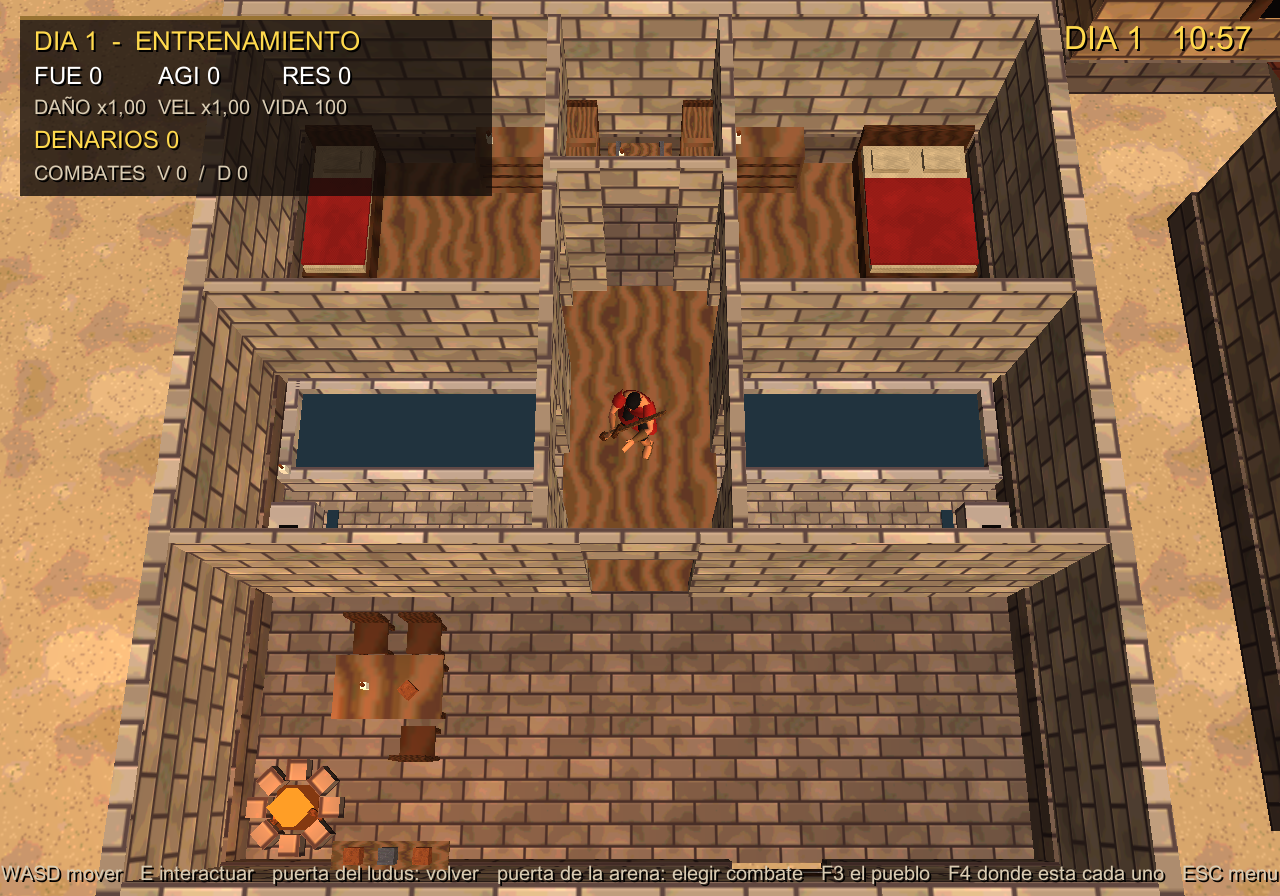
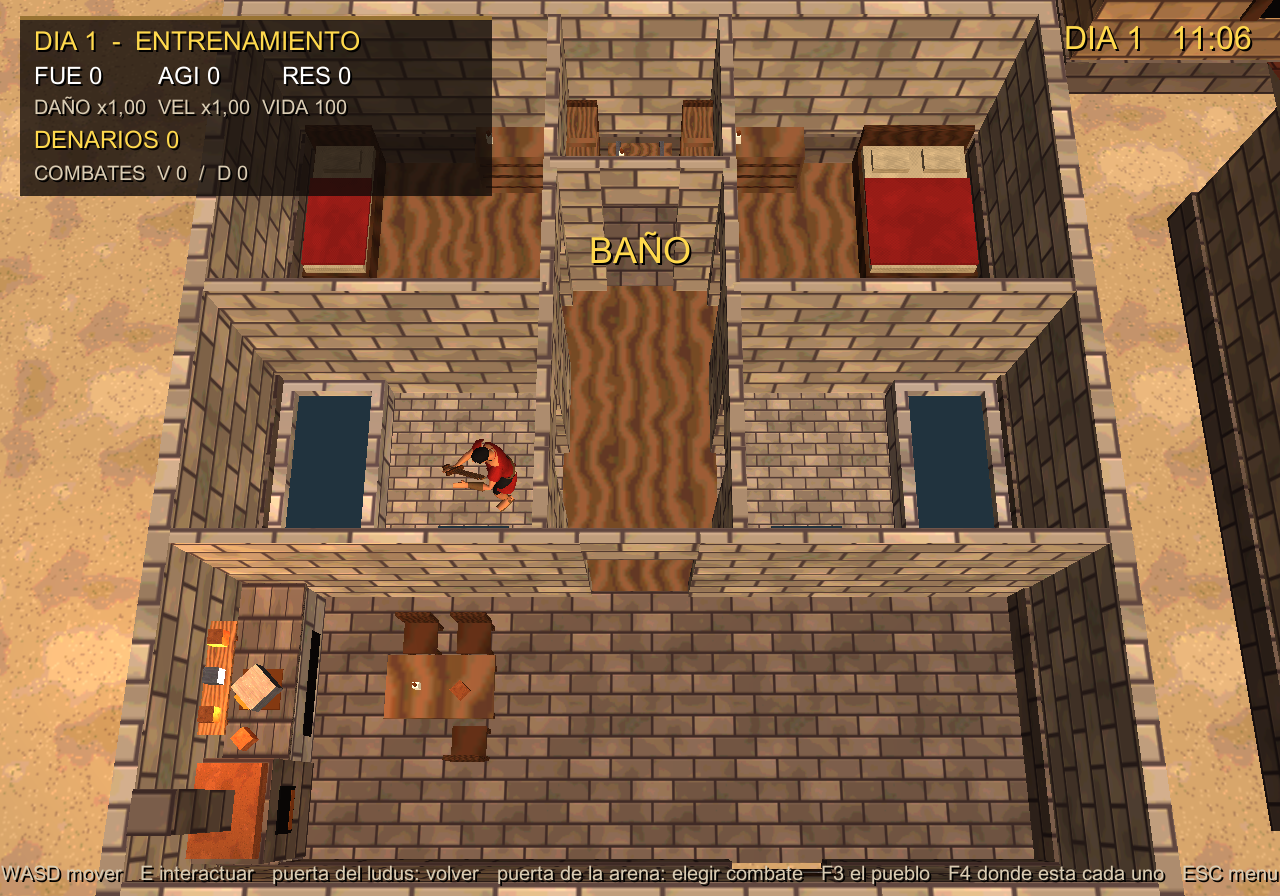
Casas: cocina de obra con horno en todo un costado (sin hoguera), estante colgado sobre la encimera; banera al fondo sin tapar la entrada

diff --git a/Assets/_Project/Scripts/Town/TownBuilder.cs b/Assets/_Project/Scripts/Town/TownBuilder.cs
@@ -547,9 +547,36 @@ namespace Gladiator.Town
                     }
                     else if (chest && z0 + 2.7f < z1 - 0.1f) Candle(cx + 0.25f, 0.56f, z0 + 2.4f);
                 }
-                // a bathroom: a big tub along wall z0 (the far one), a latrine against the far side near z1, a candle
-                void Bathroom(float x0, float x1, float z0, float z1, int farSide)
+                // a bathroom. Doorway in the z1 wall (normal homes): the tub along the back wall z0, the latrine by the far
+                // side near z1. Doorway in a side wall (large homes, doorSide = -1 at x0 / +1 at x1): the tub along the
+                // opposite side wall, the latrine against the z1 wall between the tub and the doorway. Candle on the tub.
+                void Bathroom(float x0, float x1, float z0, float z1, int farSide, int doorSide = 0)
                 {
+                    if (doorSide != 0)
+                    {
+                        float dpt = z1 - z0, wdt = x1 - x0;
+                        float tL = Mathf.Max(1.4f, dpt - 0.25f), tW = Mathf.Min(1.3f, wdt - 1.7f);
+                        if (tW < 0.9f) tW = 0.9f;
+                        float tx = doorSide > 0 ? x0 + 0.1f + tW * 0.5f : x1 - 0.1f - tW * 0.5f, tzc = (z0 + z1) * 0.5f;
+                        Box(stone, P(tx - tW * 0.5f + 0.08f, 0.3f, tzc), new Vector3(0.16f, 0.6f, tL), q);
+                        Box(stone, P(tx + tW * 0.5f - 0.08f, 0.3f, tzc), new Vector3(0.16f, 0.6f, tL), q);
+                        Box(stone, P(tx, 0.3f, tzc - tL * 0.5f + 0.08f), new Vector3(tW, 0.6f, 0.16f), q);
+                        Box(stone, P(tx, 0.3f, tzc + tL * 0.5f - 0.08f), new Vector3(tW, 0.6f, 0.16f), q);
+                        Box(stone, P(tx, 0.05f, tzc), new Vector3(tW, 0.1f, tL), q);
+                        Box(water, P(tx, 0.42f, tzc), new Vector3(tW - 0.3f, 0.03f, tL - 0.3f), q, 0f);
+                        Collider(P(tx, 0.3f, tzc), new Vector3(tW, 0.6f, tL), q);
+                        Candle(tx, 0.6f, tzc + tL * 0.5f - 0.1f);
+                        // latrine along the z1 wall, between the tub and the doorway
+                        float free0 = doorSide > 0 ? x0 + 0.2f + tW : x0 + 0.1f, free1 = doorSide > 0 ? x1 - 0.1f : x1 - 0.2f - tW;
+                        if (free1 - free0 >= 0.95f)
+                        {
+                            float lxc = (free0 + free1) * 0.5f, lzc = z1 - 0.35f;
+                            Solid(stone, lxc, 0.22f, lzc, new Vector3(0.9f, 0.44f, 0.6f));
+                            Box(dark, P(lxc, 0.445f, lzc), new Vector3(0.3f, 0.01f, 0.24f), q, 0f);
+                            Box(water, P(lxc, 0.03f, lzc - 0.42f), new Vector3(0.9f, 0.03f, 0.14f), q, 0f);
+                        }
+                        return;
+                    }
                     float bw = x1 - x0, depth = z1 - z0;
                     float tubW = Mathf.Max(1.4f, bw - 0.3f), tubD = Mathf.Min(1.35f, depth - 1.2f);
                     if (tubD < 0.9f) tubD = 0.9f;
@@ -571,39 +598,66 @@ namespace Gladiator.Town
                     }
                 }
 
-                // KITCHEN: hearth in the far front corner, table with chairs, a shelf, a hanging shelf, a candle
+                // KITCHEN: a masonry cooking range along the whole far side wall (the door is never there): an oven at the
+                // front end, a fire on the worktop with a pot, jars, and a shelf hanging above it. Table with chairs, a
+                // standing shelf on the other wall (normal homes; large ones keep their shelves in the storeroom).
                 float f = sideDoor ? -ss : (dx >= 0f ? -1f : 1f);
                 float xFar = f > 0 ? ix1 : ix0, xNear = f > 0 ? ix0 : ix1;
                 float kMid = (zs + iz1) * 0.5f;
                 {
-                    float hx0 = xFar - f * 0.62f, hz0 = iz1 - 0.62f;
-                    for (int k = 0; k < 8; k++)
-                    {
-                        float a = k / 8f * Mathf.PI * 2f;
-                        Solid(stoneDark, hx0 + Mathf.Cos(a) * 0.42f, 0.12f, hz0 + Mathf.Sin(a) * 0.42f, new Vector3(0.24f, 0.24f, 0.24f), false, k * 45f);
-                    }
-                    Box(ember, P(hx0, 0.06f, hz0), new Vector3(0.5f, 0.06f, 0.5f), q, 0f);
-                    Box(darkWood, P(hx0 - 0.12f, 0.14f, hz0), new Vector3(0.5f, 0.07f, 0.07f), q * Quaternion.Euler(0, 30f, 0), 0f);
-                    Box(darkWood, P(hx0 + 0.1f, 0.14f, hz0 + 0.05f), new Vector3(0.5f, 0.07f, 0.07f), q * Quaternion.Euler(0, -40f, 0), 0f);
-                    Collider(P(hx0, 0.3f, hz0), new Vector3(1.0f, 0.6f, 1.0f), q);
-                    var fire = new GameObject("Hearth").transform;
+                    const float cd = 0.72f;                                   // depth of the range
+                    float rx = xFar - f * cd * 0.5f, rz0 = zs + 0.1f, rz1 = iz1 - 0.05f, rLen = rz1 - rz0;
+                    // worktop body + top slab + a dark band (the fire boxes underneath)
+                    Solid(stone, rx, 0.45f, (rz0 + rz1) * 0.5f, new Vector3(cd, 0.9f, rLen));
+                    Box(stoneDark, P(rx, 0.93f, (rz0 + rz1) * 0.5f), new Vector3(cd + 0.04f, 0.06f, rLen + 0.04f), q, 0f);
+                    Box(dark, P(rx - f * (cd * 0.5f + 0.005f), 0.3f, rz0 + rLen * 0.35f), new Vector3(0.01f, 0.32f, rLen * 0.4f), q, 0f);
+                    // the oven at the front end: a block with a dark arched mouth, embers inside and a chimney
+                    float oz = rz1 - 0.55f;
+                    Solid(stoneDark, rx, 0.75f, oz, new Vector3(cd + 0.06f, 1.5f, 1.05f));
+                    Box(clay, P(rx, 1.6f, oz), new Vector3(cd - 0.04f, 0.22f, 0.95f), q, 0f);
+                    Box(dark, P(rx - f * (cd * 0.5f + 0.04f), 0.95f, oz), new Vector3(0.02f, 0.5f, 0.5f), q, 0f);
+                    Box(ember, P(rx - f * (cd * 0.5f + 0.045f), 0.78f, oz), new Vector3(0.02f, 0.12f, 0.42f), q, 0f);
+                    Box(stoneDark, P(xFar - f * 0.25f, 2.4f, oz), new Vector3(0.4f, 1.6f, 0.4f), q);                 // chimney up the wall
+                    // the fire on the worktop with a pot over it (its light: on only while you are in this storey)
+                    float fz = rz0 + Mathf.Min(1.2f, rLen * 0.4f);
+                    Box(ember, P(rx, 0.97f, fz), new Vector3(0.45f, 0.03f, 0.45f), q, 0f);
+                    Box(iron, P(rx, 1.12f, fz), new Vector3(0.36f, 0.26f, 0.36f), q * Quaternion.Euler(0, 45f, 0), 0f);
+                    var fire = new GameObject("CookingFire").transform;
                     fire.SetParent(house.transform, false);
-                    fire.position = P(hx0, 0.1f, hz0);
+                    fire.position = P(rx, 0.97f, fz);
                     var fl = new GameObject("Flame").transform;
                     fl.SetParent(fire, false);
-                    PS2Spawn.Mesh(fl, "F", LowPolyMesh.Box(new Vector3(0.3f, 0.45f, 0.3f), new Vector3(0, 0.22f, 0)), Vector3.zero, flameMat, Quaternion.Euler(0, 45f, 0));
-                    PS2Spawn.Mesh(fl, "F2", LowPolyMesh.Box(new Vector3(0.16f, 0.32f, 0.16f), new Vector3(0, 0.16f, 0)), new Vector3(0.08f, 0, 0.05f), ember);
-                    var li = new GameObject("HearthLight").AddComponent<Light>();
+                    PS2Spawn.Mesh(fl, "F", LowPolyMesh.Box(new Vector3(0.18f, 0.16f, 0.18f), new Vector3(0, 0.08f, 0)), new Vector3(0.12f, 0f, 0.1f), flameMat, Quaternion.Euler(0, 45f, 0));
+                    var li = new GameObject("KitchenLight").AddComponent<Light>();
                     li.transform.SetParent(fire, false);
-                    li.transform.localPosition = new Vector3(0, 1.1f, 0);
-                    li.type = LightType.Point; li.range = 5.5f; li.intensity = 1.5f; li.color = new Color(1f, 0.58f, 0.25f);
+                    li.transform.localPosition = new Vector3(0, 1.0f, 0);
+                    li.type = LightType.Point; li.range = 5.5f; li.intensity = 1.4f; li.color = new Color(1f, 0.6f, 0.28f);
                     li.shadows = LightShadows.None;
                     li.enabled = false;
                     var tf = fire.gameObject.AddComponent<Gladiator.Arena.TorchFlicker>();
                     tf.Light = li; tf.Flame = fl; tf.BaseIntensity = li.intensity;
                     house.Lights.Add(li);
+                    // jars on the worktop
+                    for (int k = 0; k < 3; k++)
+                    {
+                        float jz = fz + 0.55f + k * 0.32f;
+                        if (jz > oz - 0.65f) break;
+                        Box(clay, P(rx + f * 0.1f, 1.05f, jz), new Vector3(0.18f, 0.22f, 0.18f), q * Quaternion.Euler(0, 45f, 0), 0f);
+                    }
+                    // the hanging shelf above the worktop, on the same wall (away from any door)
+                    float hz1 = Mathf.Min(oz - 0.75f, fz + 1.4f), hz0 = Mathf.Max(rz0 + 0.1f, hz1 - 1.2f);
+                    if (hz1 - hz0 > 0.5f)
+                    {
+                        float hcz = (hz0 + hz1) * 0.5f, hxw = xFar - f * 0.15f;
+                        Box(wood, P(hxw, 1.75f, hcz), new Vector3(0.28f, 0.05f, hz1 - hz0), q, 0f);
+                        foreach (float e in new[] { -0.45f, 0.45f })
+                            Box(darkWood, P(hxw + f * 0.02f, 1.62f, hcz + e * (hz1 - hz0) / 1.2f), new Vector3(0.18f, 0.25f, 0.05f), q, 0f);
+                        for (int k = 0; k < 3; k++)
+                            Box(k == 1 ? iron : clay, P(hxw, 1.87f, hz0 + (k + 0.5f) * (hz1 - hz0) / 3f), new Vector3(0.16f, 0.2f, 0.16f), q, 0f);
+                    }
 
-                    float tx = xFar - f * 1.75f, tz = kMid - 0.35f;
+                    // table with chairs (one per person, 2..4), candle and a jar on it, clear of the range
+                    float tx = xFar - f * 2.35f, tz = kMid - 0.35f;
                     Solid(wood, tx, 0.74f, tz, new Vector3(1.25f, 0.07f, 0.72f));
                     foreach (float sx in new[] { -0.52f, 0.52f })
                         foreach (float sz in new[] { -0.28f, 0.28f })
@@ -623,14 +677,7 @@ namespace Gladiator.Town
                     }
                     Candle(tx + 0.25f, 0.78f, tz);
                     Box(clay, P(tx - 0.25f, 0.84f, tz + 0.05f), new Vector3(0.16f, 0.16f, 0.16f), q * Quaternion.Euler(0, 45f, 0), 0f);
-                    // standing shelf on the near side wall by the partition (in a large home the storeroom has the shelves)
                     if (!large) Shelf(xNear + f * 0.22f, zs + 0.95f, 1.2f);
-                    float hsx = xFar - f * 2.1f, hsz = iz1 - 0.16f;
-                    Box(wood, P(hsx, 1.65f, hsz), new Vector3(1.2f, 0.05f, 0.28f), q, 0f);
-                    foreach (float e in new[] { -0.5f, 0.5f })
-                        Box(darkWood, P(hsx + e, 1.52f, hsz + 0.05f), new Vector3(0.05f, 0.25f, 0.18f), q, 0f);
-                    for (int k = 0; k < 3; k++)
-                        Box(k == 1 ? iron : clay, P(hsx - 0.35f + k * 0.35f, 1.77f, hsz), new Vector3(0.16f, 0.2f, 0.16f), q, 0f);
                 }
 
                 if (!large)
@@ -644,8 +691,8 @@ namespace Gladiator.Town
                     // two bedrooms (the couple's double bed in one, a single bed in the other), two bathrooms, the storeroom
                     Bedroom(ix0, cx0, iz0, zb, -1, hh.Item1, false);
                     Bedroom(cx1, ix1, iz0, zb, 1, false, false);
-                    Bathroom(ix0, cx0, zb, zs, -1);
-                    Bathroom(cx1, ix1, zb, zs, 1);
+                    Bathroom(ix0, cx0, zb, zs, -1, 1);     // doorway in the hallway wall (x1 side of the left bathroom)
+                    Bathroom(cx1, ix1, zb, zs, 1, -1);
                     // storeroom 2 x 2: shelves along both side walls, the chest against the back wall, a candle on it
                     Shelf(cx0 + 0.27f, iz0 + 0.95f, 1.2f);
                     Shelf(cx1 - 0.27f, iz0 + 0.95f, 1.2f);

diff --git a/Assets/_Project/Scripts/Town/TownAutoTest.cs b/Assets/_Project/Scripts/Town/TownAutoTest.cs
@@ -321,6 +321,32 @@ namespace Gladiator.Town
                     yield return Wait(1.5f);
                     var tmL = town.GetComponent<TownManager>();
                     Log($"LARGE inside room={lh.RoomAt(town.Player.transform.position)} roofHidden={!lh.Upper.activeSelf}");
+                    // walk from the hallway into both bathrooms and both bedrooms through their doorways
+                    var walkedIn = new System.Collections.Generic.List<string>();
+                    foreach (var rm in lh.Rooms)
+                    {
+                        if (rm.Name != "BANO" && rm.Name != "HABITACION") continue;
+                        Teleport(town.Player, lh.RoomCenter("PASILLO"), -lh.transform.forward);
+                        yield return Wait(0.2f);
+                        float side = rm.X0 < 0f ? -1f : 1f;
+                        float zc = rm.Name == "BANO" ? (rm.Z0 + rm.Z1) * 0.5f : rm.Z0 + 2.75f - 0.0f;
+                        if (rm.Name == "HABITACION") zc = lh.Rooms.Find(r => r.Name == "TRASTERO").Z0 + 2.75f;
+                        Vector3[] pts = { lh.transform.TransformPoint(new Vector3(0f, 0.05f, zc)), lh.transform.TransformPoint(new Vector3(side * 1.9f, 0.05f, zc)) };
+                        foreach (var target in pts)
+                            for (float t = 0f; t < 3f; t += Time.deltaTime)
+                            {
+                                Vector3 to = target - town.Player.transform.position; to.y = 0f;
+                                if (to.magnitude < 0.25f) break;
+                                town.Player.Move(to.normalized * 0.5f); town.Player.SetFacing(to);
+                                yield return null;
+                            }
+                        town.Player.Move(Vector3.zero);
+                        yield return Wait(0.2f);
+                        Vector3 lp = lh.transform.InverseTransformPoint(town.Player.transform.position);
+                        bool inRoom = lp.x >= rm.X0 && lp.x <= rm.X1 && lp.z >= rm.Z0 && lp.z <= rm.Z1;
+                        walkedIn.Add(rm.Name + (side < 0 ? "-izq" : "-der") + "=" + inRoom);
+                    }
+                    Log("LARGE walkIn [" + string.Join(", ", walkedIn) + "]");
                     yield return Shot("31_casa_grande");
                     camL.FocusOverride = null; camL.Distance = d0; camL.Pitch = p0; camL.Yaw = yaw0;
                 }

diff --git a/README.md b/README.md
@@ -395,9 +395,10 @@ En la puerta norte del ludus, **E** abre el menu de combate:
 ## El pueblo: muebles
 - Todas las viviendas habitadas (planta baja y primer piso) tienen muebles low-poly hechos por codigo, con el mismo
   estilo PS2 y colision:
-  - **Cocina**: hogar de piedra con fuego (llama que parpadea y luz calida, encendida solo en la casa donde estas),
-    mesa con tantas sillas como habitantes (2-4), vela y vasija en la mesa, estanteria con vasijas y estante colgante.
-  - **Baño**: bañera grande de piedra con agua, letrina de piedra con canal de agua, vela.
+  - **Cocina**: una cocina de obra con horno que ocupa todo un costado (la pared sin puerta): encimera de piedra,
+    horno con su boca y brasas, chimenea, fuego con olla (luz calida, encendida solo en la casa donde estas), vasijas
+    y un estante colgado encima. Mesa con tantas sillas como habitantes (2-4), vela y vasija; estanteria con vasijas.
+  - **Baño**: bañera grande de piedra con agua contra la pared del fondo (nunca tapa la entrada), letrina de piedra con canal de agua, vela.
   - **Habitacion**: cama doble si vive una pareja y camas simples para hijos o ancianos, cofre a los pies de la cama,
     comoda (o el cofre) con vela.
 - **Una cama por habitacion como maximo**: doble si vive una pareja, simple si vive una persona.
